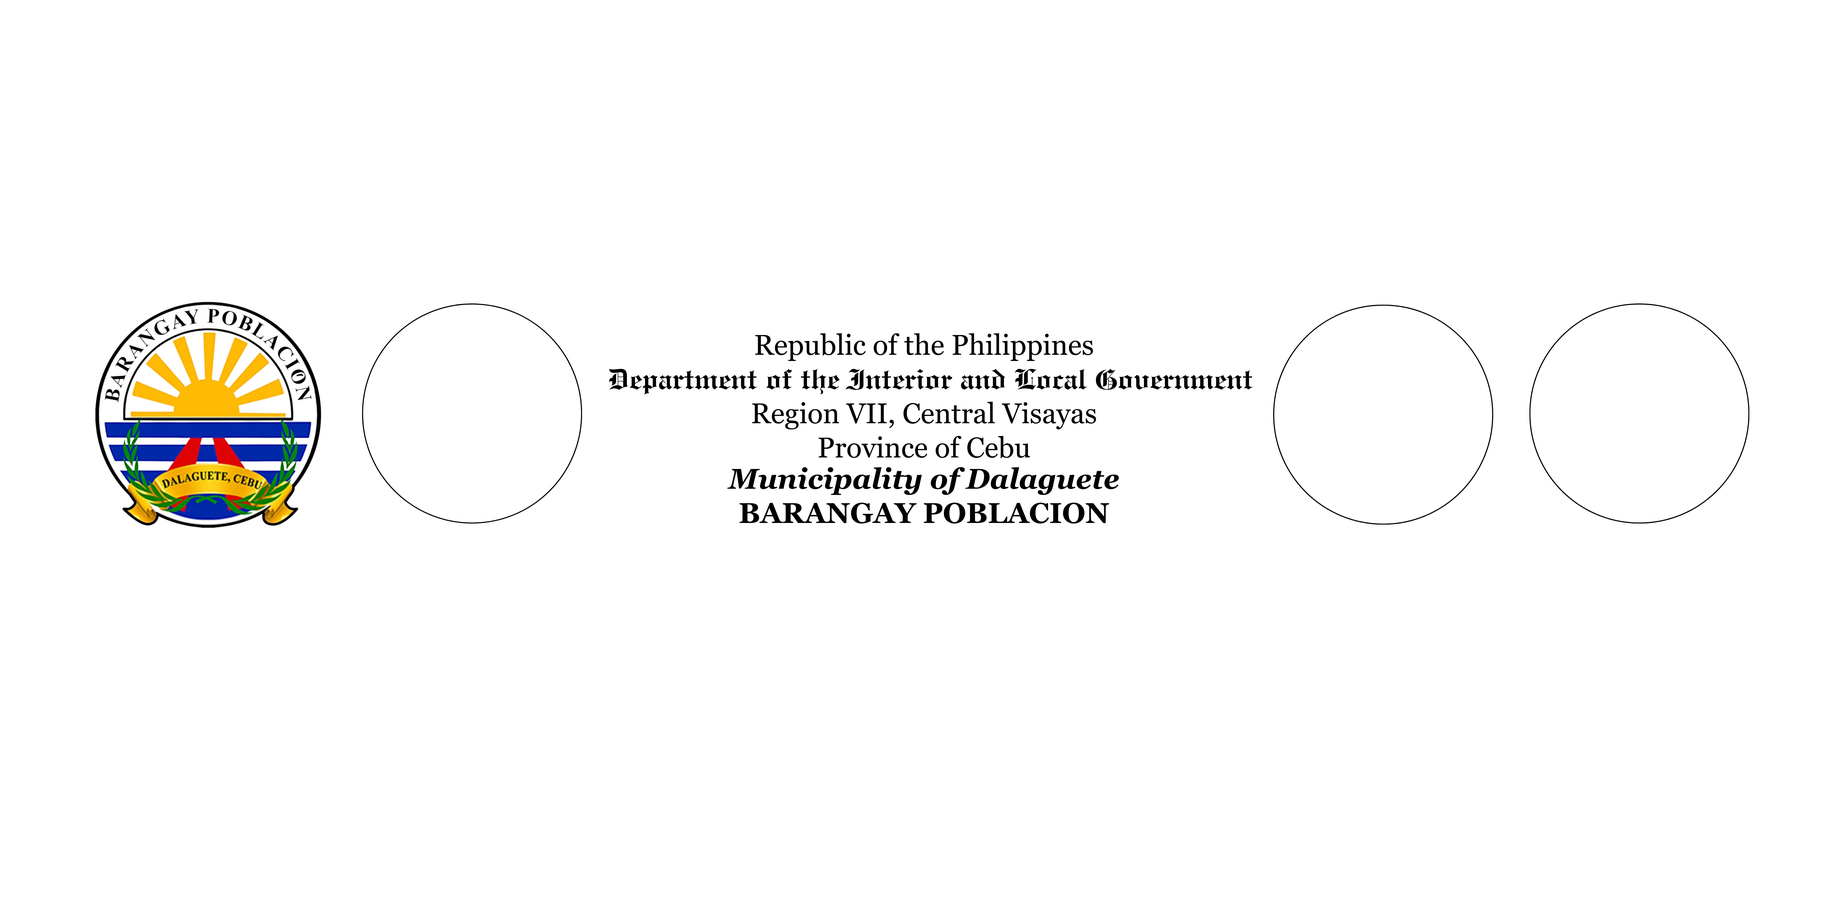
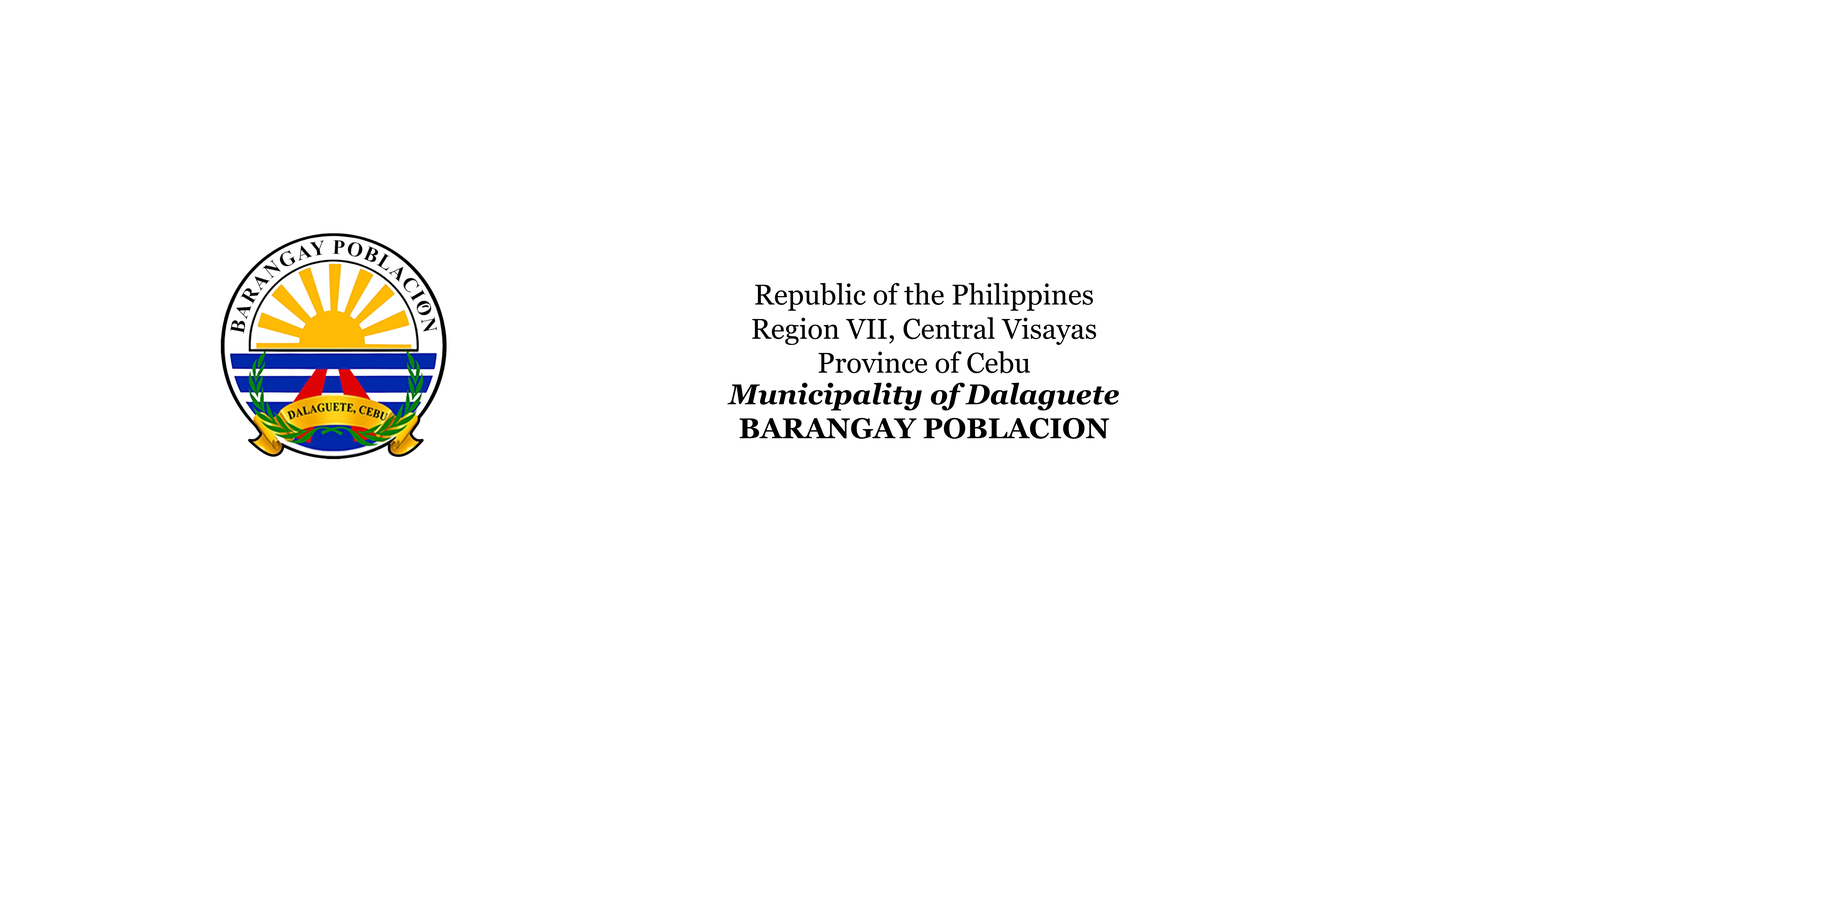
ID Generator, Certificates, View Requested

Changed region(s): [[0.3125, 0.3125, 0.6875, 0.5625], [0.0312, 0.25, 0.25, 0.5938]]

diff --git a/public/css/app.css b/public/css/app.css
@@ -1248,6 +1248,36 @@ select {
 .mt-\[8rem\] {
   margin-top: 8rem;
 }
+.mt-\[2\.5rem\] {
+  margin-top: 2.5rem;
+}
+.mt-\[42px\] {
+  margin-top: 42px;
+}
+.mt-\[45px\] {
+  margin-top: 45px;
+}
+.mt-\[43px\] {
+  margin-top: 43px;
+}
+.mt-\[63px\] {
+  margin-top: 63px;
+}
+.mt-\[65px\] {
+  margin-top: 65px;
+}
+.mt-\[73px\] {
+  margin-top: 73px;
+}
+.mt-\[68px\] {
+  margin-top: 68px;
+}
+.mt-\[67px\] {
+  margin-top: 67px;
+}
+.mt-\[3\.5rem\] {
+  margin-top: 3.5rem;
+}
 .block {
   display: block;
 }
@@ -1940,6 +1970,9 @@ select {
 }
 .border-8 {
   border-width: 8px;
+}
+.border-\[1\.5px\] {
+  border-width: 1.5px;
 }
 .border-b {
   border-bottom-width: 1px;

diff --git a/resources/views/residents/show.blade.php b/resources/views/residents/show.blade.php
@@ -5,7 +5,7 @@
         </h2>
     </x-slot>
     
-    <div class="w-[1400px] h-max ml-8 px-5 py-5 rounded-lg border-2 border-black" style="border-color: black;">
+    <div class="flex flex-col w-[1400px] h-max ml-8 px-5 py-5 rounded-lg border-2 border-black" style="border-color: black;">
         <div class="flex flex-row">
             <div>
                 <div class="flex flex-row ml-10">
@@ -14,6 +14,10 @@
                 </div>
                 <div class="ml-24 mt-4 flex flex-col" style="margin-left: 92px;">
                     <div class="font-robotocondensed font-bold text-deep-green" style="font-size: 18px;">
+                        <p>Request Status:</p>
+                        <p class="px-6 border-2 w-[300px] h-[max]" style="border-color: #414833;">{{ $transaction->serviceStatus}}</p>
+                    </div>
+                    <div class="font-robotocondensed font-bold text-deep-green mt-6" style="font-size: 18px;">
                         <p>Document Number:</p>
                         <p class="px-6 border-2 w-[300px]" style="border-color: #414833;">{{ $transaction->docNumber}}</p>
                     </div>
@@ -25,22 +29,27 @@
                         <p>Requested Document:</p>
                         <p class="px-6 border-2 w-[300px] mt-1" style="border-color: #414833;"> {{$transaction->document->docName}}</p>
                     </div>
-                    <div class="font-robotocondensed font-bold text-deep-green mt-6" style="font-size: 18px;">
-                        <p>Requestee Name:</p>
-                        <p class="px-6 border-2 w-[300px] h-[max]" style="border-color: #414833;">{{ $requester->requesteeFName }} {{ $requester->requesteeLName }}</p>
-                    </div>
-                    <div class="font-robotocondensed font-bold text-deep-green mt-6" style="font-size: 18px;">
-                        <p>Email:</p>
-                        <p class="px-6 border-2 w-[300px]" style="border-color: #414833;">{{ $requester->requesteeEmail }}</p>
-                    </div>
-                    <div class="font-robotocondensed font-bold text-deep-green mt-6" style="font-size: 18px;">
-                        <p>Contact Number:</p>
-                        <p class="px-6 border-2 w-[300px]" style="border-color: #414833;">{{ $requester->requesteeContactNumber }}</p>
-                    </div>
                 </div>
             </div>
             <div>
-            <div class="ml-24 mt-4 flex flex-col" style="margin-left: 92px;">
+                <div class="ml-24 mt-[43px] flex flex-col">
+                        <div class="font-robotocondensed font-bold text-deep-green mt-6" style="font-size: 18px;">
+                            <p>Requestee Name:</p>
+                            <p class="px-6 border-2 w-[300px] h-[max]" style="border-color: #414833;">{{ $requester->requesteeFName }} {{ $requester->requesteeLName }}</p>
+                        </div>
+                        <div class="font-robotocondensed font-bold text-deep-green mt-6" style="font-size: 18px;">
+                            <p>Email:</p>
+                            <p class="px-6 border-2 w-[300px]" style="border-color: #414833;">{{ $requester->requesteeEmail }}</p>
+                        </div>
+                        <div class="font-robotocondensed font-bold text-deep-green mt-6" style="font-size: 18px;">
+                            <p>Contact Number:</p>
+                            <p class="px-6 border-2 w-[300px]" style="border-color: #414833;">{{ $requester->requesteeContactNumber }}</p>
+                        </div>
+                </div>
+            </div>
+            
+            <div>
+                <div class="ml-24 mt-[67px] flex flex-col">
                     <div class="font-robotocondensed font-bold text-deep-green" style="font-size: 18px;">
                         <p>Payment Method:</p>
                         <p class="px-6 border-2 w-[300px]" style="border-color: #414833;">{{ $transaction->payment->paymentMethod}}</p>
@@ -53,22 +62,52 @@
                         <p>Payment Status:</p>
                         <p class="px-6 border-2 w-[300px] mt-1" style="border-color: #414833;"> {{$transaction->payment->paymentStatus}}</p>
                     </div>
-
+                </div>
+            </div>
+        </div>
+        <hr class="mt-8 border-[1.5px] border-deep-green">
+        <div class="flex flex-row">
+            <div>
+                <div class="ml-24 mt-4 flex flex-col" style="margin-left: 92px;">
                     <div class="font-robotocondensed font-bold text-deep-green mt-6" style="font-size: 18px;">
-                        <p>Requestee Name:</p>
-                        <p class="px-6 border-2 w-[300px] h-[max]" style="border-color: #414833;">{{ $requester->requesteeFName }} {{ $requester->requesteeLName }}</p>
-                    </div>
-                    <div class="font-robotocondensed font-bold text-deep-green mt-6" style="font-size: 18px;">
-                        <p>Email:</p>
+                        <p>Reviewed By:</p>
                         <p class="px-6 border-2 w-[300px]" style="border-color: #414833;">{{ $requester->requesteeEmail }}</p>
                     </div>
                     <div class="font-robotocondensed font-bold text-deep-green mt-6" style="font-size: 18px;">
-                        <p>Contact Number:</p>
+                        <p>Reviewed On:</p>
                         <p class="px-6 border-2 w-[300px]" style="border-color: #414833;">{{ $requester->requesteeContactNumber }}</p>
+                    </div>
+                    <div class="font-robotocondensed font-bold text-deep-green mt-6" style="font-size: 18px;">
+                        <p>Endorsed By:</p>
+                        <p class="px-6 border-2 w-[300px]" style="border-color: #414833;">Pending</p>
+                    </div>
+                    <div class="font-robotocondensed font-bold  text-deep-green mt-6" style="font-size: 18px;">
+                        <p>Endorsed On:</p>
+                        <p class="px-6 border-2 w-[300px]" style="border-color: #414833;">Pending</p>
                     </div>
                 </div>
             </div>
-            
+            <div>
+                <div class="ml-24 mt-4 flex flex-col" style="margin-left: 92px;">
+                    <div class="font-robotocondensed font-bold text-deep-green mt-6" style="font-size: 18px;">
+                        <p>Approved By:</p>
+                        <p class="px-6 border-2 w-[300px] mt-1" style="border-color: #414833;"> Pending</p>
+                    </div>
+
+                    <div class="font-robotocondensed font-bold text-deep-green mt-6" style="font-size: 18px;">
+                        <p>Approved On:</p>
+                        <p class="px-6 border-2 w-[300px] h-[max]" style="border-color: #414833;">Pending</p>
+                    </div>
+                    <div class="font-robotocondensed font-bold text-deep-green mt-6" style="font-size: 18px;">
+                        <p>Issued By:</p>
+                        <p class="px-6 border-2 w-[300px]" style="border-color: #414833;">Pending</p>
+                    </div>
+                    <div class="font-robotocondensed font-bold text-deep-green mt-6" style="font-size: 18px;">
+                        <p>Issued On:</p>
+                        <p class="px-6 border-2 w-[300px]" style="border-color: #414833;">Pending</p>
+                    </div>
+                </div>
+            </div>
         </div>
     </div>
     

diff --git a/resources/views/services/request.blade.php b/resources/views/services/request.blade.php
@@ -23,7 +23,7 @@
                         @if ($doctypename == 'BARANGAY CERTIFICATE' || $doctypename == 'BARANGAY CLEARANCE' )
                         <div class="">
                             <label>TYPE OF CERTIFICATE</label>
-                            <select class="rounded-lg border-2 w-full h-[50px] text-[26px]" style="border-color: #414833;" name="selectedDocument">
+                            <select class="rounded-lg border-2 w-full h-[50px] text-[26px]" style="border-color: #414833;" name="selectedDocument" id="selectedDocument">
                                 @foreach($documents as $document)
                                 <option value="{{$document->id}}">{{$document->docName}}</option>
                                 @endforeach
@@ -42,7 +42,7 @@
                                 <label>* LAST NAME</label>
                             </div>
                             <div class="ml-10">
-                                <input class="px-2 focus:outline-none border-2 w-[175px] bg-white text-deep-green" style="border-color: #414833;" value="{{$user->middleName}}" name="requesteeMName" required>
+                                <input class="px-2 focus:outline-none border-2 w-[175px] bg-white text-deep-green" style="border-color: #414833;" value="{{$user->middleName}}" name="requesteeMName">
                                 <br>
                                 <label>MIDDLE NAME</label>
                             </div>
@@ -62,6 +62,10 @@
                         <div class="mt-[3rem]">
                             <label>* PURPOSE OF REQUEST</label>
                             <textarea class="px-2 focus:outline-none border-2 rounded-lg w-[650px] pl-6" style="border-color: #414833;" name="requestPurpose" required>{{ old('requestPurpose') }}</textarea>
+                                <div id="requirementsContainer" class="text-[16px] italic">
+                                    <!-- Placeholder for requirements to be added dynamically -->
+                                </div>
+                            <p></p>
                         </div>
                         @elseif ($doctypename == 'FILE COMPLAIN')
                         <input class="hidden px-2 focus:outline-none border-2 w-[225px] bg-green text-dirty-white" style="border-color: #414833;" value="16" name="selectedDocument">
@@ -110,7 +114,7 @@
                                 <label>* LAST NAME</label>
                             </div>
                             <div class="ml-10">
-                                <input class="px-2 focus:outline-none border-2 w-[175px] bg-white text-deep-green" style="border-color: #414833;" name="complaineeMName" >
+                                <input class="px-2 focus:outline-none border-2 w-[175px] bg-white text-deep-green" style="border-color: #414833;" name="complaineeMName">
                                 <br>
                                 <label>MIDDLE NAME</label>
                             </div>
@@ -228,7 +232,7 @@
                     <input class="hidden px-2 focus:outline-none border-2 w-[225px] bg-green text-dirty-white" style="border-color: #414833;" value="100" name="docfee">
                 </div>
                 @elseif($doctypename == 'BARANGAY CERTIFICATE')
-                <div class="w-[300px]">
+                <div class="w-[300px] mt-[3.5rem]">
                     <p class="font-robotocondensed text-[24px] text-deep-green font-semibold">CERTIFICATE FEE:</p>
                     <p class="font-robotocondensed text-[24px] text-deep-green font-semibold">PHP 100</p>
                     <input class="hidden px-2 focus:outline-none border-2 w-[225px] bg-green text-dirty-white" style="border-color: #414833;" value="100" name="docfee">

diff --git a/resources/views/documents/indigency.blade.php b/resources/views/documents/indigency.blade.php
@@ -4,14 +4,14 @@
         <h2 style="font-family: 'Roboto', sans-serif; font-size: 14px;text-align: start; margin-left: 44px;">TO WHOM IT MAY CONCERN,</h2>
       </div>
     <div style="margin-top:32px; width:750px;">
-      <p style="font-family: 'Lora', serif; font-size: 14px; text-align: start; margin-left: 44px; margin-right: 44px; text-indent: 22px; font-weight:400">This is to certify that <span style="text-decoration: underline;">{{$requestee->requesteeFName}} {{$requestee->requesteeMName}} {{$requestee->requesteeLName}}</span>, <span style="text-decoration: underline; font-weight:bold;">(PATIENT)</span> years old, is a resident of Poblacion, Dalaguete, Cebu</span></p>
+      <p style="font-family: 'Lora', serif; font-size: 14px; text-align: start; margin-left: 44px; margin-right: 44px; text-indent: 22px; font-weight:400">This is to certify that <span style="text-decoration: underline;">{{$requestee->requesteeFName}} {{$requestee->requesteeMName}} {{$requestee->requesteeLName}}</span>, is a resident of Barangay Poblacion, Dalaguete, Cebu</p>
     </div>
     <div style="margin-top:32px; width:750px;">
       <p style="font-family: 'Lora', serif;font-size: 14px;text-align: start;margin-left: 44px;margin-right: 44px;text-indent: 22px; font-weight:400">This further certify that he/she belongs to an indigent family in this barangay.</p>
     </div>
     <div style="margin-top:32px; width:750px;">
       <p style="font-family: 'Lora', serif;font-size: 14px;text-align: start;margin-left: 44px;margin-right: 44px; text-indent: 22px;">This certification is issued upon the request of <span style="text-decoration: underline;">{{$requestee->requesteeFName}} {{$requestee->requesteeMName}} {{$requestee->requesteeLName}}</span> for
-      <span style="text-decoration: underline;">{{$requestee->requestPurpose}}</span> purposes.</p>
+      <span style="text-decoration: underline;">{{$requestee->requestPurpose}}</span>purposes.</p>
     </div>
     <div style="margin-top:32px; width:750px;">
       <p style="font-family: 'Lora', serif;font-size: 14px;text-align: start;margin-left: 44px;margin-right: 44px;text-indent: 22px; font-weight:400">Done this {{$monthWord}} {{$date->day}}, {{$date->year}} at Poblacion, Dalaguete, Cebu, Philippines</p>

diff --git a/database/seeders/DocumentSeeder.php b/database/seeders/DocumentSeeder.php
@@ -29,7 +29,7 @@ class DocumentSeeder extends Seeder
             'docName' => 'Disco',
             'docType' => 'Barangay Certificate',
             'docTemplate' => 'CertificateTemplate',
-            'fee' => '100.0',
+            'fee' => '530.0',
             'requirements' => 'Residence Certificate',
 
             'createdBy' => 'A-001',
@@ -58,27 +58,6 @@ class DocumentSeeder extends Seeder
             'revisedBy' => 'A-001',
         ]);
 
-        Document::create([
-            'docName' => 'Financial Assistance',
-            'docType' => 'Barangay Certificate',
-            'docTemplate' => 'CertificateTemplate',
-            'fee' => '100.0',
-            'requirements' => 'Residence Certificate',
-
-            'createdBy' => 'A-001',
-            'revisedBy' => 'A-001',
-        ]);
-
-        Document::create([
-            'docName' => 'Low Income',
-            'docType' => 'Barangay Certificate',
-            'docTemplate' => 'CertificateTemplate',
-            'fee' => '100.0',
-            'requirements' => 'Residence Certificate',
-
-            'createdBy' => 'A-001',
-            'revisedBy' => 'A-001',
-        ]);
 
         Document::create([
             'docName' => 'Indigency',
@@ -113,22 +92,12 @@ class DocumentSeeder extends Seeder
             'revisedBy' => 'A-001',
         ]);
 
-        Document::create([
-            'docName' => 'Others',
-            'docType' => 'Barangay Certificate',
-            'docTemplate' => 'CertificateTemplate',
-            'fee' => '100.0',
-            'requirements' => 'Residence Certificate',
-
-            'createdBy' => 'A-001',
-            'revisedBy' => 'A-001',
-        ]);
 
         Document::create([
-            'docName' => "Business/Mayor's Permit",
+            'docName' => "Business Permit",
             'docType' => 'Barangay Clearance',
             'docTemplate' => 'ClearanceTemplate',
-            'fee' => '100.0',
+            'fee' => '330.0',
             'requirements' => 'Cedula, Copy of Previous Permit, Tax Declaration, Affidavit of Consent',
 
             'createdBy' => 'A-001',

diff --git a/resources/views/documents/disco.blade.php b/resources/views/documents/disco.blade.php
@@ -1,0 +1,14 @@
+<h2 style="font-family: 'Roboto', sans-serif; font-size: 18px; font-weight: 800; text-align: center; letter-spacing: 0.1em;">Barangay Certification</h2>
+      </div>
+      <div style="margin-top:48px;">
+        <h2 style="font-family: 'Roboto', sans-serif; font-size: 14px;text-align: start; margin-left: 44px;">TO WHOM IT MAY CONCERN,</h2>
+      </div>
+    <div style="margin-top:32px; width:750px;">
+      <p style="font-family: 'Lora', serif; font-size: 14px; text-align: start; margin-left: 44px; margin-right: 44px; text-indent: 22px; font-weight:400">This is to certify that <span style="text-decoration: underline;">{{$requestee->requestPurpose}}</span> of Barangay Poblacion, Dalaguete, Cebu will celebrate the Annual fiesta in honor of San Pedro Calungsod.</p>
+    </div>
+    <div style="margin-top:32px; width:750px;">
+      <p style="font-family: 'Lora', serif;font-size: 14px;text-align: start;margin-left: 44px;margin-right: 44px;text-indent: 22px; font-weight:400">This certification is issued upon the request of <span style="text-decoration: underline;">{{$requestee->requesteeFName}} {{$requestee->requesteeMName}} {{$requestee->requesteeLName}}</span> to support their application for permit to hold a DISCO for the celebration of the fiesta at Sitio Ilaya of Barangay Poblacion, Dalaguete, Cebu on {{$monthWord}} {{$date->year}}</p>
+    </div>
+    <div style="margin-top:32px; width:750px;">
+      <p style="font-family: 'Lora', serif;font-size: 14px;text-align: start;margin-left: 44px;margin-right: 44px; text-indent: 22px;">Issued on <span style="text-decoration: underline;">{{$date->day}} </span>of &nbsp;<span style="text-decoration: underline;">{{$monthWord}}</span> , <span style="text-decoration: underline;">{{$date->year}}</span> at Poblacion, Dalaguete, Cebu.</p>
+</div>

diff --git a/resources/views/documents/businesspermit.php b/resources/views/documents/businesspermit.php
@@ -1,0 +1,15 @@
+<h2 style="font-family: 'Roboto', sans-serif; font-size: 18px; font-weight: 800; text-align: center; letter-spacing: 0.1em;">Barangay Clearance for Business Permit</h2>
+      </div>
+      <div style="margin-top:48px;">
+        <h2 style="font-family: 'Roboto', sans-serif; font-size: 14px;text-align: start; margin-left: 44px;">TO WHOM IT MAY CONCERN,</h2>
+      </div>
+    <div style="margin-top:32px; width:750px;">
+      <p style="font-family: 'Lora', serif; font-size: 14px; text-align: start; margin-left: 44px; margin-right: 44px; text-indent: 22px; font-weight:400">This is to certify that the Barangay interposes no objection in the application of <span style="text-decoration: underline;">{{$requestee->requesteeFName}} {{$requestee->requesteeMName}} {{$requestee->requesteeLName}}</span>whose business is <span style="text-decoration: underline;">{{$requestee->requestPurpose}}</span> at Poblacion, Dalaguete, Cebu for the period from {{$monthWord}} {{$date->year}} up to December {{$date->year}}</p>
+    </div>
+
+    <div style="margin-top:32px; width:750px;">
+      <p style="font-family: 'Lora', serif;font-size: 14px;text-align: start;margin-left: 44px;margin-right: 44px; text-indent: 22px;">This certification is issued upon the request of <span style="text-decoration: underline;">{{$requestee->requesteeFName}} {{$requestee->requesteeMName}} {{$requestee->requesteeLName}}</span> to support his/her application for NEW business permit</p>
+    </div>
+    <div style="margin-top:32px; width:750px;">
+      <p style="font-family: 'Lora', serif;font-size: 14px;text-align: start;margin-left: 44px;margin-right: 44px;text-indent: 22px; font-weight:400">Given this {{$monthWord}} {{$date->day}}, {{$date->year}} at Poblacion, Dalaguete, Cebu, Philippines</p>
+    </div>

diff --git a/resources/views/layouts/app.blade.php b/resources/views/layouts/app.blade.php
@@ -81,6 +81,40 @@
     });
 });
 
+    document.addEventListener('DOMContentLoaded', function () {
+        function showRequirements() {
+            // Get the selected option
+            var selectedOption = document.getElementById('selectedDocument').value;
+            console.log('Selected Option:', selectedOption);
+            var requirements;
+
+            // Set requirements based on selected option
+            switch(selectedOption) {
+            case '2':
+                requirements = "Please specify the Sitio where the Disco will be held in the Purpose of Request Field. Ex: Sitio Labangon";
+                break;
+            case '11':
+                requirements = "Please specify the name of the Business in the Purpose of Request Field";
+                break;
+            default:
+                requirements = "Default requirements";
+        }
+
+
+            // Show the corresponding requirements container
+            document.getElementById('requirementsContainer').innerHTML = requirements;
+        }
+
+        // Call the function initially to show requirements for the default selected option
+        showRequirements();
+
+        // Attach event listener to the dropdown to update requirements when option is changed
+        document.getElementById('selectedDocument').addEventListener('change', function() {
+            showRequirements();
+        });
+
+    });
+
     </script>
 
 

diff --git a/resources/views/documents/barangaycertificate.blade.php b/resources/views/documents/barangaycertificate.blade.php
@@ -32,7 +32,7 @@
 <div class="document">
   <page size="A4">
     <div style="margin-top:12px;">
-      <img src="images/RepublicofthePhilippines.png" width="1040" border="0" alt="" style="display: block; width: 100%; max-width: 640px; margin-left:42px;">
+      <img src="images/BarangayPobHeader.png" width="1040" border="0" alt="" style="display: block; width: 100%; max-width: 640px; margin-left:42px;">
     </div>
     <hr style="border: 1px solid black; margin-top: 2px;">
     <div style="margin-top:32px; align-self:center;">
@@ -44,8 +44,13 @@
          @include('documents.goodmoral')
       @elseif($doc->docName == 'Indigency')
         @include('documents.indigency')
+      @elseif($doc->docName == 'Disco')
+        @include('documents.disco')
       @endif
-   
+    @elseif($doc->docType == 'Barangay Clearance')
+      @if($doc->docName == 'Business Permit')
+         @include('documents.businesspermit')
+      @endif
     @endif
     <div style="display: flex;flex-direction: column;margin-top: 54px; margin-right:2rem">
   <hr style="align-self: end;border: 2px solid black;border-top-width: 2px;width: 250px;margin-right: 80px;margin-top: 10px;">

diff --git a/app/Models/Transaction.php b/app/Models/Transaction.php
@@ -44,7 +44,7 @@ class Transaction extends Model
         return $this->belongsTo(DocumentDetails::class,'id');
     }
 
-    public function payment()
+    public function transactionpayment()
     {
         return $this->belongsTo(Payment::class, 'id');
     }
